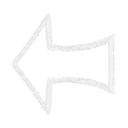
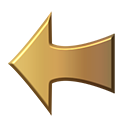
ver.0.9.1
feat: add custom iOS home screen icon for game
feat: update control button icons for improved UI clarity

diff --git a/index.html b/index.html
@@ -6,6 +6,7 @@
   <meta name="viewport" content="width=device-width, initial-scale=1.0, maximum-scale=1.0, user-scalable=no">
   <meta name="apple-mobile-web-app-capable" content="yes">
   <meta name="apple-mobile-web-app-status-bar-style" content="black-translucent">
+  <link rel="apple-touch-icon" href="icn_mothvoid.png">
   <title>MOTHVOID</title>
   <style>
     * {
@@ -407,7 +408,7 @@
   <img src="title_mothvoid.webp" alt="MOTHVOIDタイトルロゴ" id="titleLogo">
   <p id="pressToStart">PRESS ANY BUTTON</p>
   <p id="smartphoneHint" class="title-only">
-  Ver.0.81<br>
+  Ver.0.9.1<br>
   ※スマホの場合<br>
   「共有ボタン→ホーム画面に追加」<br>
   その後ホーム画面のショートカットから<br>
